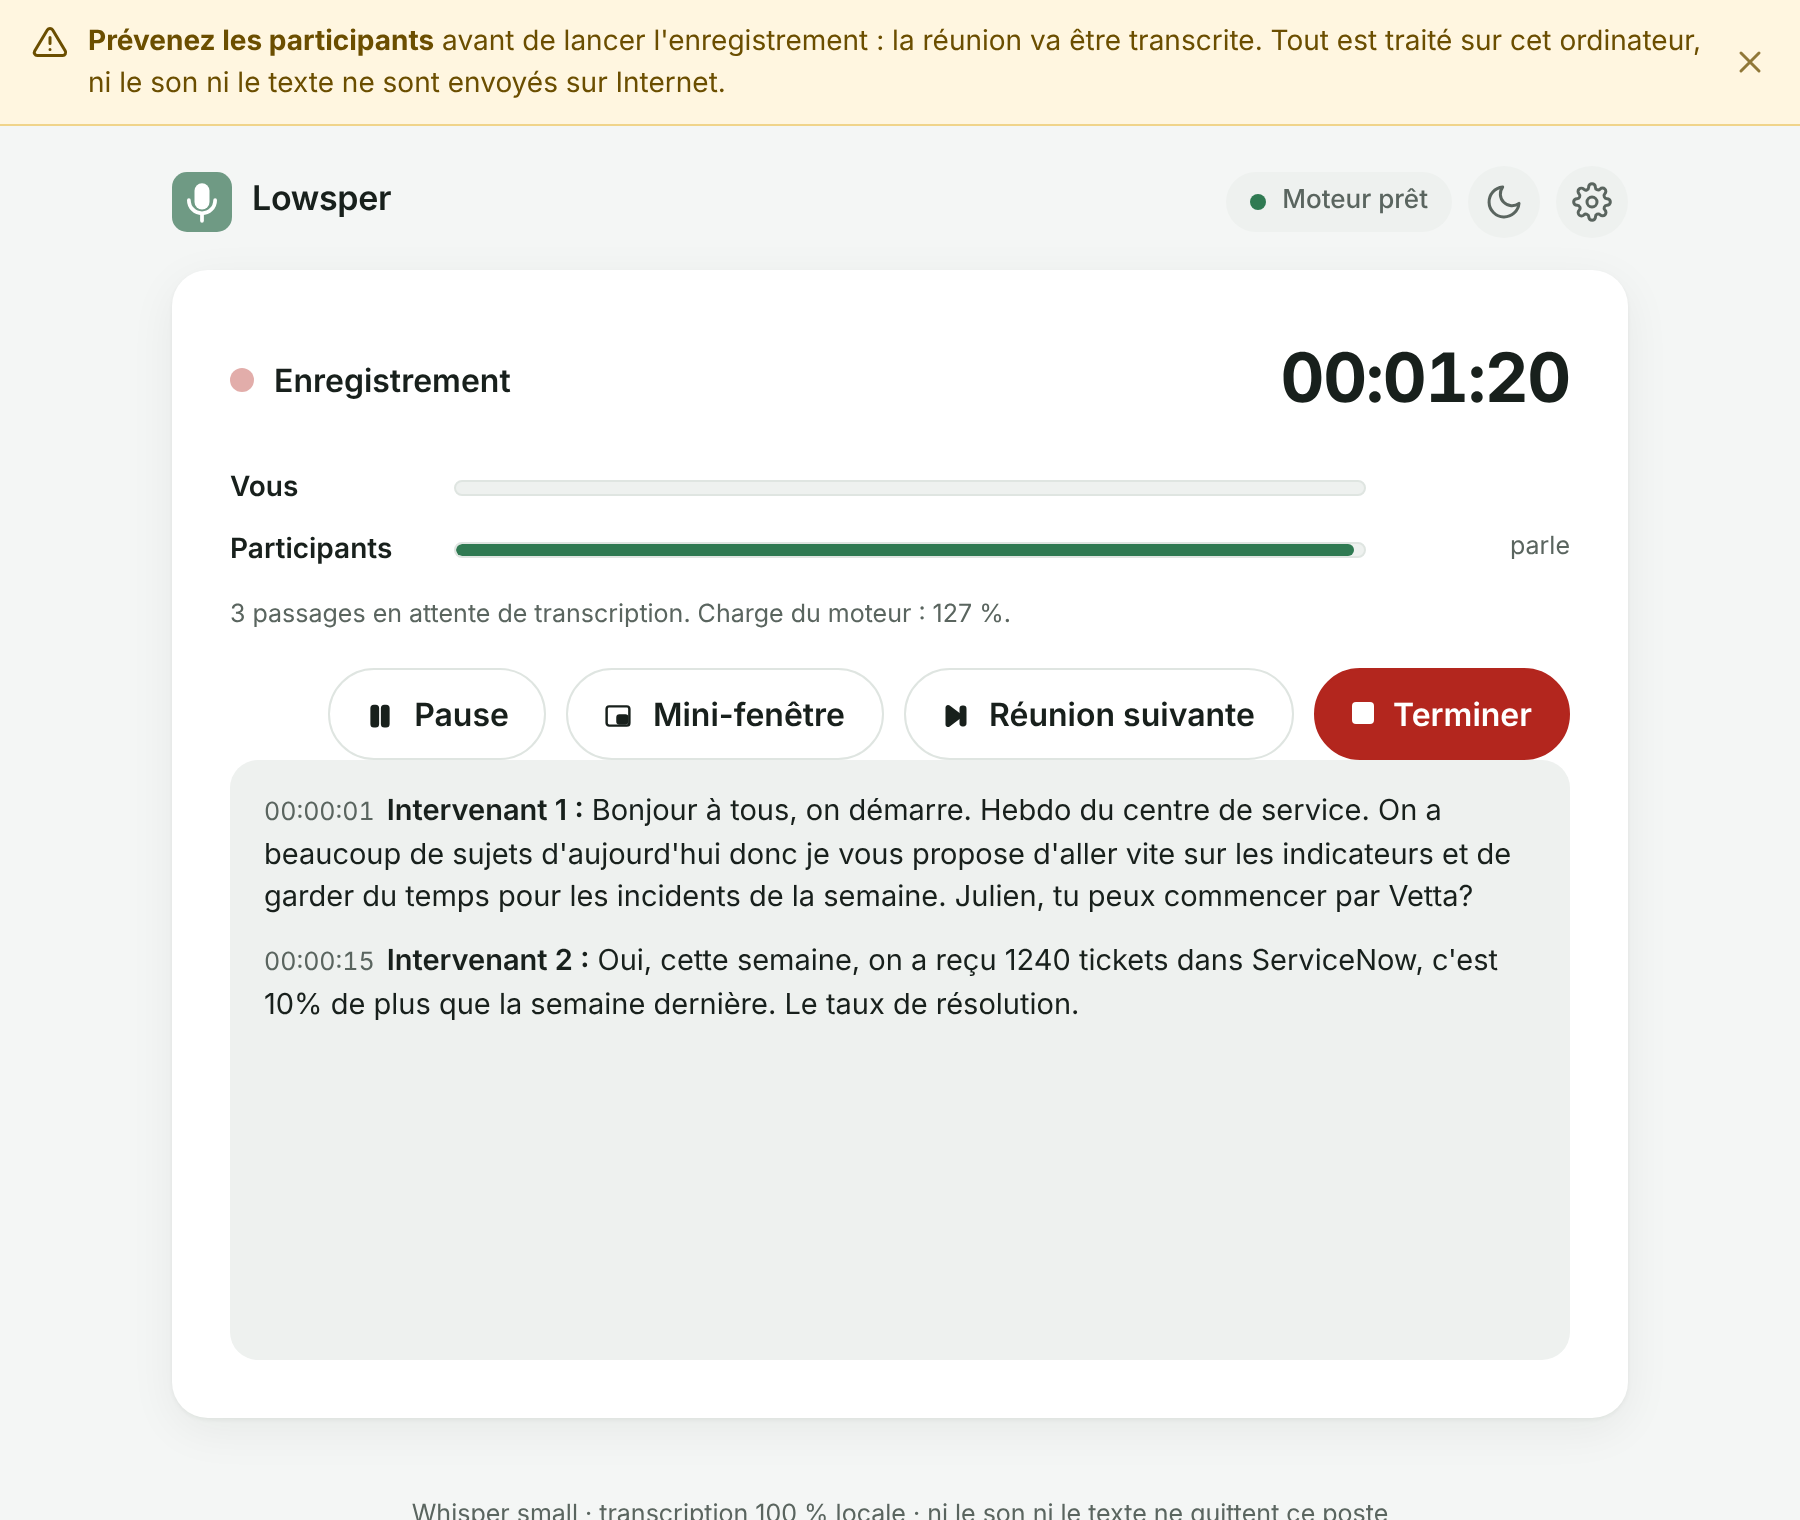
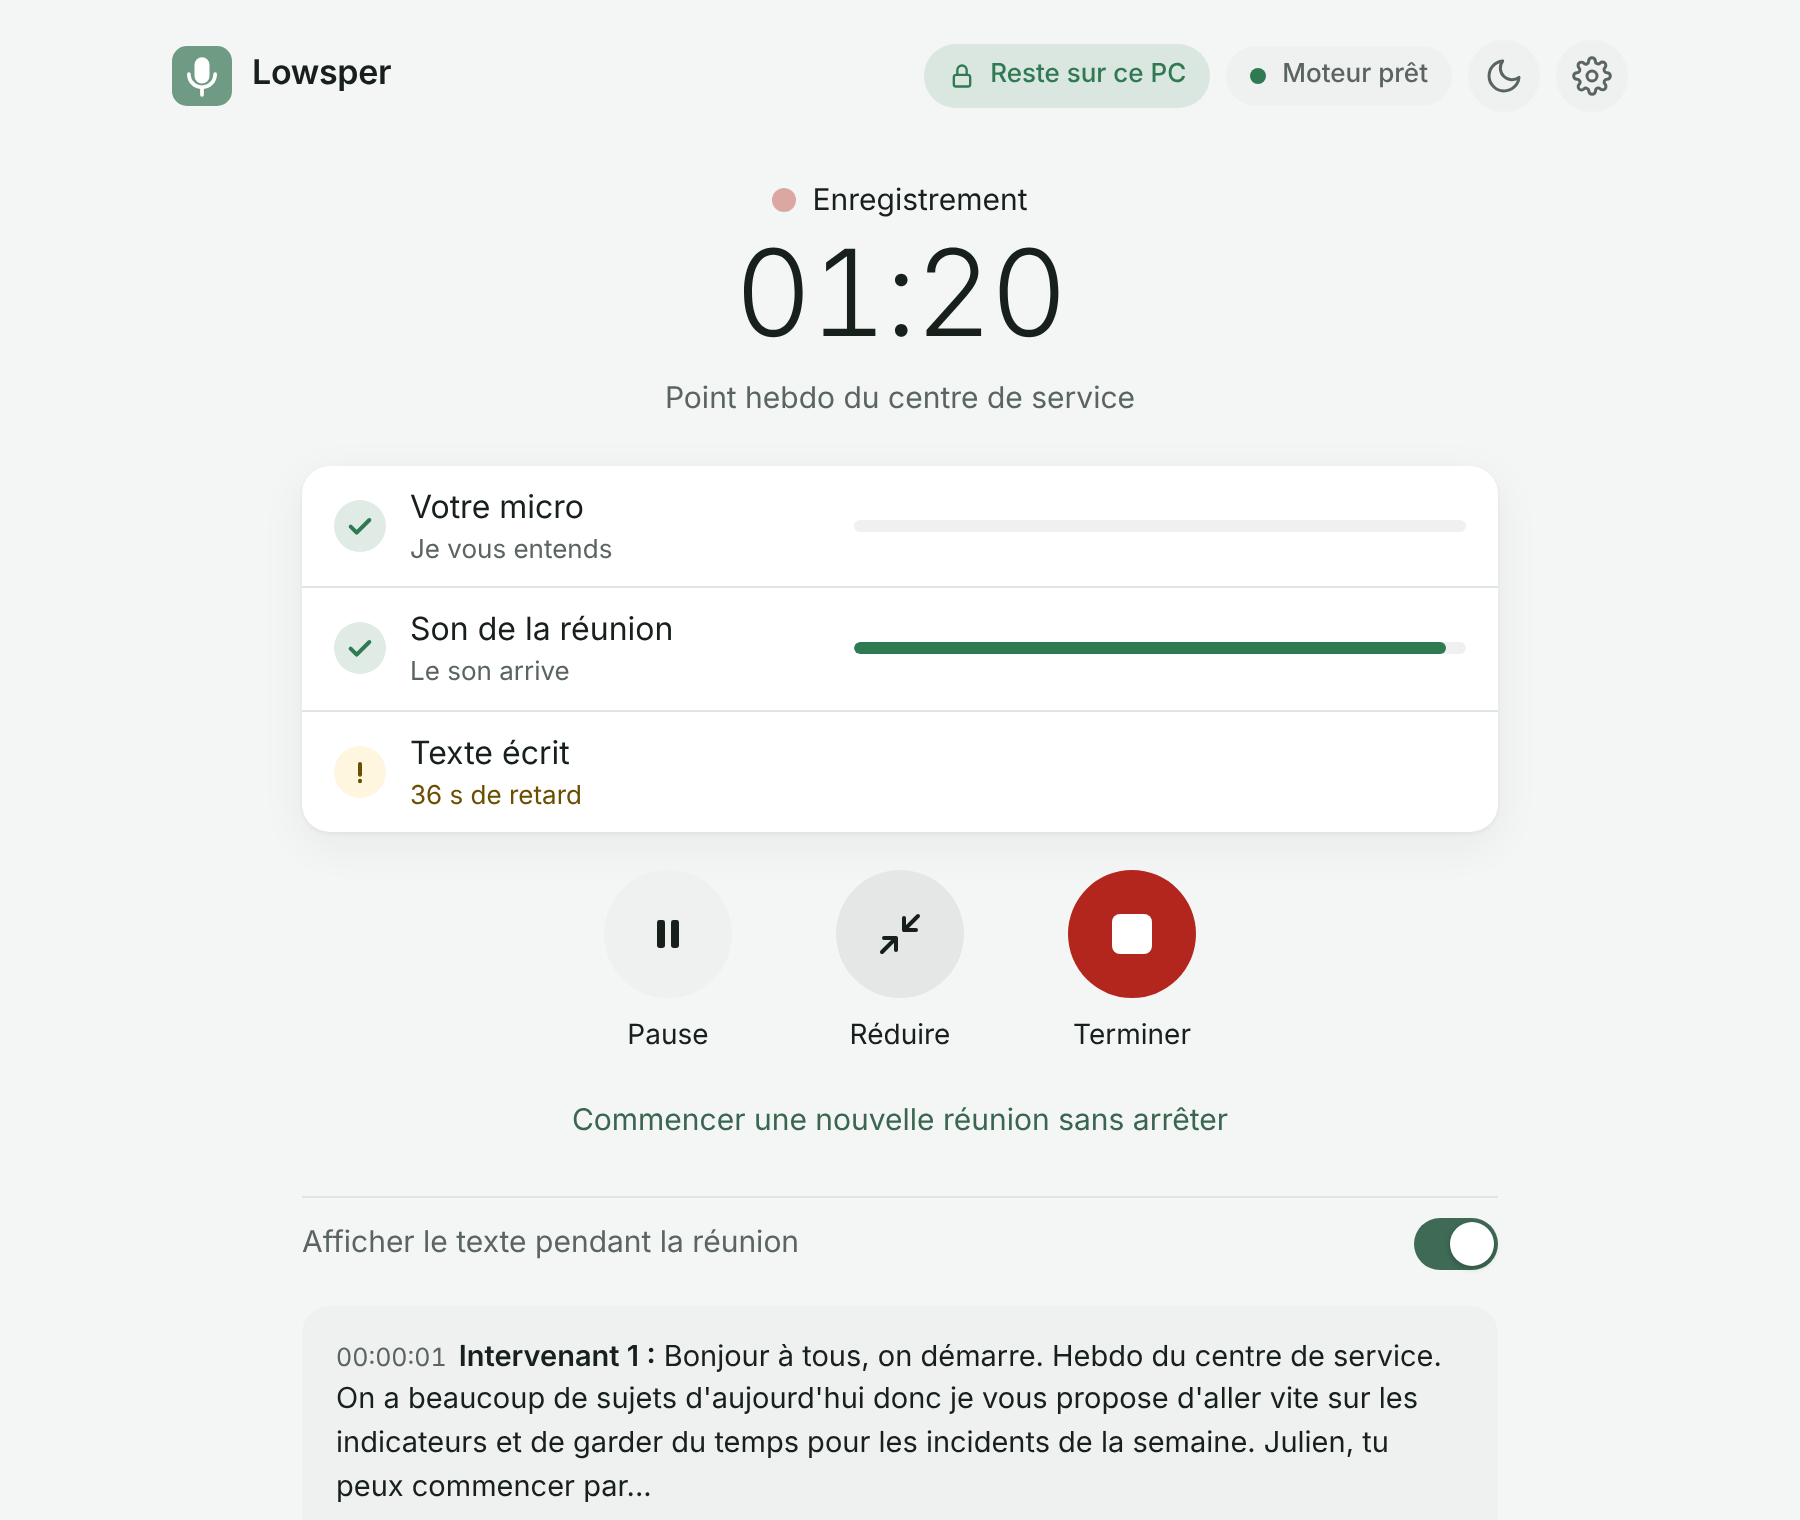
docs(reunion): captures de la fenêtre de réunion et de la mini-barre, charge du moteur
Claude-Session: https://claude.ai/code/session_01G6rbD8fsv5c5832fggQVxk

diff --git a/decision.md b/decision.md
@@ -1751,9 +1751,16 @@ gestionnaire de fenêtres, sans l'émulation de taille de Playwright :
   contrôle d'état affiché.
 - Charge du moteur (`npm run bench`) : voir le tableau ci-dessous.
 
-| Passage de 25 s, Whisper small | Avant | Après |
+| Passage de 25 s, Whisper small | Avant | Après (deux mesures) |
 |---|---|---|
-| Durée (RTF) | 13 883 ms (0,555) | voir ci-dessous |
+| Durée (RTF) | 13 883 ms (0,555) | 14 332 ms (0,573) ; 14 354 ms (0,574) |
+
+  Écart de 3 %, attribué au bruit de la machine : le banc ne charge que `engine.js`, que ce lot ne
+  modifie pas, et ce même moteur a déjà donné de 14 172 à 14 456 ms aux lots R2 et R3. Le travail
+  ajouté au direct est l'affichage (contrôle d'état), hors du moteur.
+- **Capture `enregistrement.png`** : elle montre « 36 s de retard », mesuré au moment de la
+  capture sur cette machine lente (un seul moteur, charge au-dessus de 100 %). C'est le
+  comportement voulu : le retard réel est affiché.
 
 **Limites.**
 - Tailles de la mini-fenêtre non mesurées dans Chrome et Edge sous Windows et macOS.
